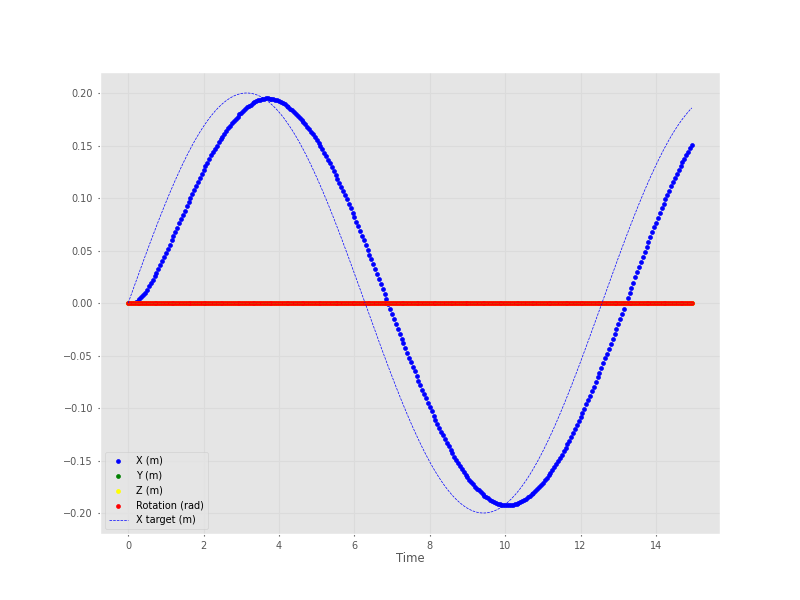
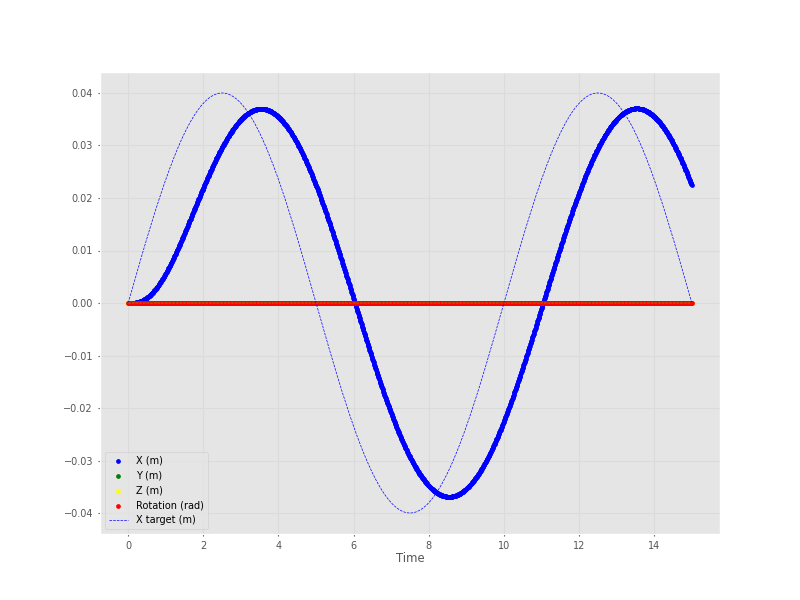
Plots, better tuning

diff --git a/simulation_plot.py b/simulation_plot.py
@@ -11,27 +11,19 @@ from scipy.spatial.transform import Rotation as R
 from scipy.signal import square
 
 # Init env
-env = swift.Swift()
 panda = rtb.models.DH.Panda()
 panda.q = panda.qr
 panda.taulim = [87, 87, 87, 87, 12, 12, 12]
-panda.qdlim = np.array([2.1750, 2.1750, 2.1750, 2.1750, 2.6100, 2.6100, 2.6100]) * 100
-
-pandaShow = rtb.models.Panda()
-pandaShow.q = panda.q
-env.launch(realtime=True)
-env.add(pandaShow)
-dt = 0.05
+panda.qdlim = np.array([2.1750, 2.1750, 2.1750, 2.1750, 2.6100, 2.6100, 2.6100])
+dt = 0.01
 
 # Init desired position
 T_ini = panda.fkine(panda.q)
 T_des = panda.fkine(panda.q)
 target = sg.Sphere(radius=0.02, pose=T_des, color=[0,1,0])
-env.add(target)
-env.set_camera_pose([1.0, 1.0, 0.7], [0, 0, 0.4])
 
 # Init LMPC solver for path planning, gamma the gain of the controller as it ensures slows commands u, the lower the faster
-lmpc_solver = LinearMPCController(horizon=25, dt=dt, gamma = 0.00001,
+lmpc_solver = LinearMPCController(horizon=25, dt=dt, gamma = 0.08,
                                     u_min=np.array([-2.0, -2.0, -2.0, -10.0, -10.0, -10.0]),
                                     u_max=np.array([ 2.0, 2.0, 2.0, 10.0, 10.0, 10.0]))
 
@@ -45,11 +37,12 @@ t_target_x, t_target_y, t_target_z = [], [], []
 times = []
 
 # Loop
-while env.sim_time < 15:
+sim_time = 0
+while sim_time < 15:
     #Compute desired velocity from simple prop controller
     T_current = panda.fkine(panda.q)
-    T_des.t[0] = T_ini.t[0] + 0.2 * np.sin(env.sim_time * 0.5)
-    T_des.t[0] = T_ini.t[0] + square(env.sim_time * 0.5) * 0.2
+    # T_des.t[0] = T_ini.t[0] + 0.2 * np.sin(sim_time * np.pi * 2 / 10) * 0.2
+    T_des.t[0] = T_ini.t[0] + square(sim_time * np.pi * 2 / 10) * 0.4
     xdot = panda.jacobe(panda.q) @ panda.qd
     Uopt, Xopt, poses = lmpc_solver.solve(T_current, T_des, xdot)
     target.T = T_des
@@ -71,7 +64,7 @@ while env.sim_time < 15:
     t_x.append(t[0])
     t_y.append(t[1])
     t_z.append(t[2])
-    times.append(env.sim_time)
+    times.append(sim_time)
     
     R_rel_target = T_ini.R @ T_des.R
     theta_target = R.from_matrix(R_rel_target).as_rotvec()[0]
@@ -85,10 +78,9 @@ while env.sim_time < 15:
     panda.qdd = panda.accel(panda.q, panda.qd, tau)
     panda.qd += panda.qdd * dt
     panda.q += panda.qd * dt
-    pandaShow.q = panda.q
-    env.step(dt)
+    sim_time += dt
+    print("Time:", np.round(sim_time, 3), "s")
     
-env.close()
 # Set up dynamic plot
 fig, ax = plt.subplots(figsize=(8,6))
 ax.set_xlabel("Time")

diff --git a/MPC/LMPC_solver.py b/MPC/LMPC_solver.py
@@ -18,7 +18,7 @@ class LinearMPCController:
         self.u_min = u_min
         self.u_max = u_max
         self.H = np.zeros((self.n*self.horizon, self.n*self.horizon)) # Hessian
-        self.g = np.zeros((self.n*self.horizon, self.n*self.horizon)) # Gradient
+        self.g = np.zeros((0, self.n*self.horizon)) # Gradient
         self.A = np.zeros((0, self.n*self.horizon))  # Inequality onstraints
         self.b = np.zeros(0)  # Inequality constraint bounds
         self.eqA = np.zeros((0, self.n*self.horizon))  # Equality constraints
@@ -63,12 +63,18 @@ class LinearMPCController:
         # Initial state X0 = [xi_current, xi_dot_current]        
         Xd = np.tile(xi_des, self.horizon)
         Xprev = np.tile(xi_current, self.horizon)
+        
+        Q_pose = np.eye(6)       # weight for pose error
+        Q_vel  = np.eye(6) * 0.001 # low weight for velocity error
+        Q = block_diag(Q_pose, Q_vel)  # 12x12
+        Q_big = block_diag(*[Q for _ in range(self.horizon-1)])  # (12h x 12h)
+        Q_big = block_diag(Q_big, np.eye(6) * 150, np.eye(6) * 150)  # Final state also considered, strong weight on final pose and velocity
 
         # Cost: (A_big x0 + B_big U - Xd)^T (A_big x0 + B_big U - Xd) + gamma * U^T U
         # Variable is stacked X_pred(= A_big @ np.tile(x0, h) + B_big @ U) and U
         # Formulation according to QP, see QP for more details
-        self.H = 2 * (B_big.T @ B_big + self.gamma * np.eye(self.n*self.horizon))
-        self.g = 2 * (B_big.T @ (A_big @ Xprev - Xd))
+        self.H = 2 * (B_big.T @ Q_big @ B_big + self.gamma * np.eye(self.n*self.horizon))
+        self.g = 2 * (B_big.T @ Q_big @ (A_big @ Xprev - Xd))
         
         # Constraints on U
         if self.u_min is not None:
@@ -87,8 +93,8 @@ class LinearMPCController:
         T = ini_pose
         poses = [T]
         for i in range(self.horizon):
-            u_i = Uopt[self.n*i:self.n*(i+1)]
-            T = T @ se3_exp(dlog @ u_i * self.dt)
+            xi_pred = Xopt[i, :6]
+            T = T @ se3_exp(xi_pred)
             poses.append(T)
         return Uopt, Xopt, poses
 

diff --git a/simulation_robot_LMPC.py b/simulation_robot_LMPC.py
@@ -19,7 +19,7 @@ pandaShow = rtb.models.Panda()
 pandaShow.q = panda.q
 env.launch(realtime=True)
 env.add(pandaShow)
-dt = 0.05
+dt = 0.05 # Ideally, should be less than 0.01, but QP solving is too slow on my computer, 0.05 is realtime but unstable when close to singularities
 
 # Init desired position
 T_ini = panda.fkine(panda.q)
@@ -29,7 +29,7 @@ env.add(target)
 env.set_camera_pose([1.0, 1.0, 0.7], [0, 0, 0.4])
 
 # Init LMPC solver for path planning, gamma the gain of the controller as it ensures slows commands u, the lower the faster
-lmpc_solver = LinearMPCController(horizon=10, dt=dt, gamma = 0.001,
+lmpc_solver = LinearMPCController(horizon=25, dt=dt, gamma = 0.08,
                                     u_min=np.array([-2.0, -2.0, -2.0, -10.0, -10.0, -10.0]),
                                     u_max=np.array([ 2.0, 2.0, 2.0, 10.0, 10.0, 10.0]))
 
@@ -59,19 +59,15 @@ init_tau = panda.rne(panda.q, panda.qd, panda.qdd)
 qp_solver.solution = init_tau
 xdot = np.zeros(6)
 while True:
-    t = time.time()
     #Compute desired velocity from simple prop controller
     T_current = panda.fkine(panda.q)
     xdot = panda.jacobe(panda.q) @ panda.qd
     Uopt, Xopt, poses = lmpc_solver.solve(T_current, T_des, xdot)
-    print("time LMPC:", time.time() - t)
     
     #Solve QP
-    t = time.time()
     tau_reg = 5 * (panda.qr - panda.q) - 0.5 * panda.qd # PD to rest position, careful tunning
     qp_solver.update_robot_state(panda)
     qp_solver.solve(Uopt[0:6], w_tau_reg=1.0, tau_reg=tau_reg, f_ext=None)
-    print("time QP:", time.time() - t)
     tau = qp_solver.solution
     if tau is None:
         tau = panda.rne(panda.q, panda.qd, panda.qdd)

diff --git a/README.md b/README.md
@@ -43,6 +43,27 @@ pip install roboticstoolbox-python numpy qpsolvers
 └── LICENSE                         # License file
 ```
 
+## 🎥 Demos
+
+<div align="center">
+
+### 🔹Plot with X sin desired target trajectory
+<img src="images/sin.png" width="600" alt="Plot sin trajectory with LMPC">
+
+---
+
+### 🔹Plot with X square desired target trajectory
+<img src="images/square.png" width="600" alt="Plot square trajectory with LMPC">
+
+---
+
+### 🔹Plot with X square desired target trajectory, out of reach
+<img src="images/square_position_out_of_reach.png" width="600" alt="Plot square trajectory with LMPC">
+
+
+</div>
+
+---
 ## 📜 License
 This project is licensed under the [MIT License](LICENSE).  
 
